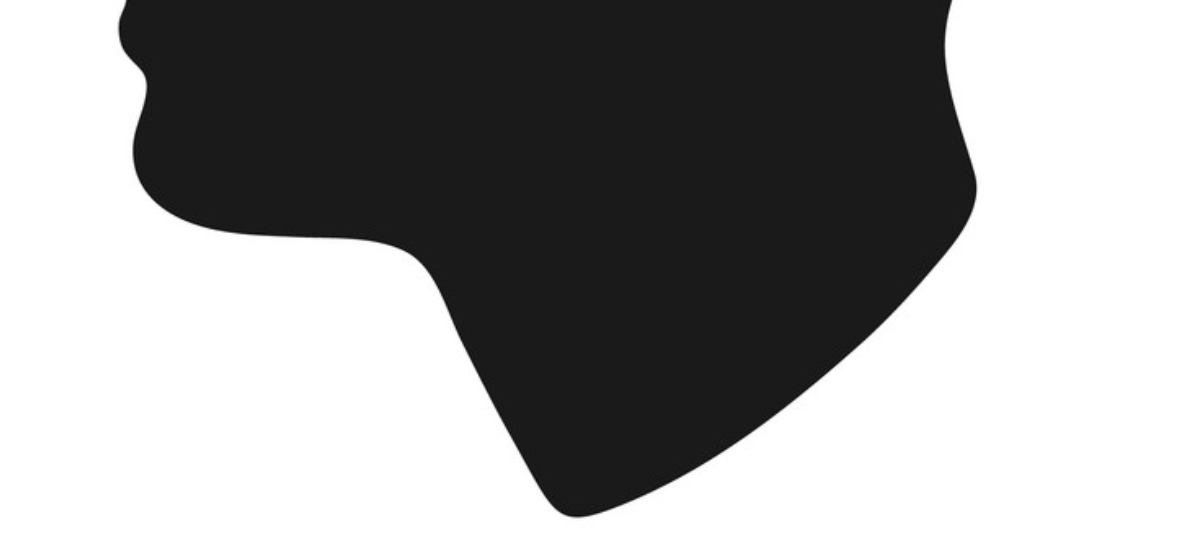
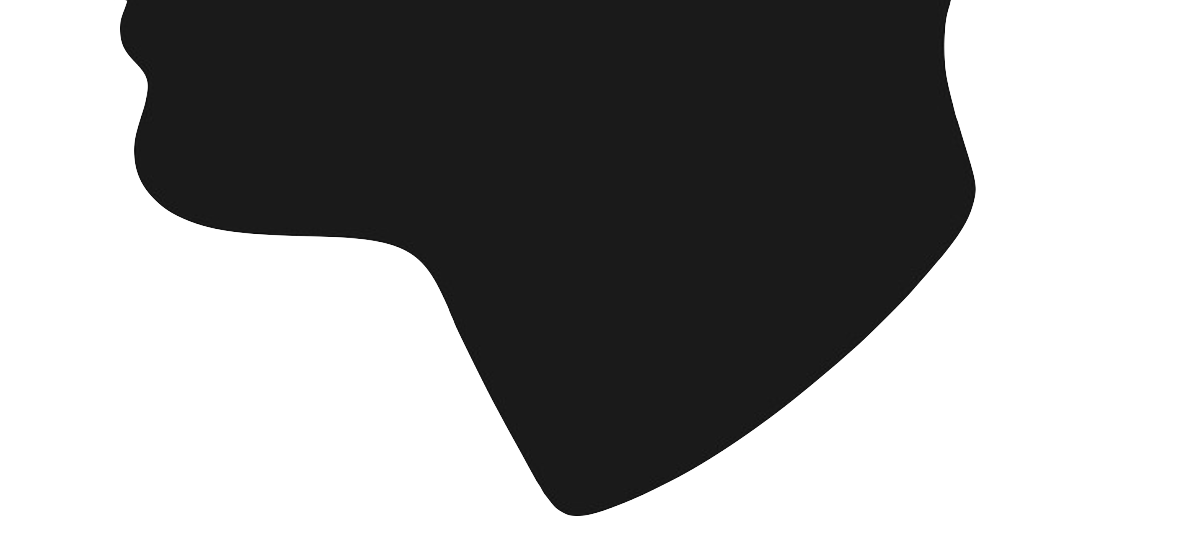
Updated Art with transparency; Added middle part for open mouth; Light background on Game Scene

diff --git a/GolovaPrototype/Sources/GameScene.swift b/GolovaPrototype/Sources/GameScene.swift
@@ -12,16 +12,17 @@ import GameplayKit
 class GameScene: SKScene {
     override func didMove(to view: SKView) {
         headPartUpper = .init(imageNamed: "headPartUpper")
+        headPartMiddle = .init(imageNamed: "headPartMiddle")
         headPartLower = .init(imageNamed: "headPartLower")
-        
+
         headPartUpper.anchorPoint = .init(x: 0.5, y: 0.0)
         headPartLower.anchorPoint = .init(x: 0.5, y: 1.0)
-        
+        headPartMiddle.centerRect = .init(x: 0.4, y: 0.4, width: 0.2, height: 0.2)
+
         head = .init()
-        
         head.addChild(headPartUpper)
+        head.addChild(headPartMiddle)
         head.addChild(headPartLower)
-        
         self.addChild(head)
     }
     
@@ -64,9 +65,11 @@ class GameScene: SKScene {
         if distance >= 0 {
             headPartUpper.position = .init(x: 0, y: distance/2)
             headPartLower.position = .init(x: 0, y: -distance/2)
+            headPartMiddle.size.height = distance
         } else {
             headPartUpper.position = .zero
             headPartLower.position = .zero
+            headPartMiddle.size.height = 0
         }
         
         let angle = angleDelta + atan2(locations[0].y - locations[1].y, locations[0].x - locations[1].x)
@@ -84,6 +87,7 @@ class GameScene: SKScene {
     }
     
     var headPartUpper: SKSpriteNode!
+    var headPartMiddle: SKSpriteNode!
     var headPartLower: SKSpriteNode!
     var head: SKNode!
     
